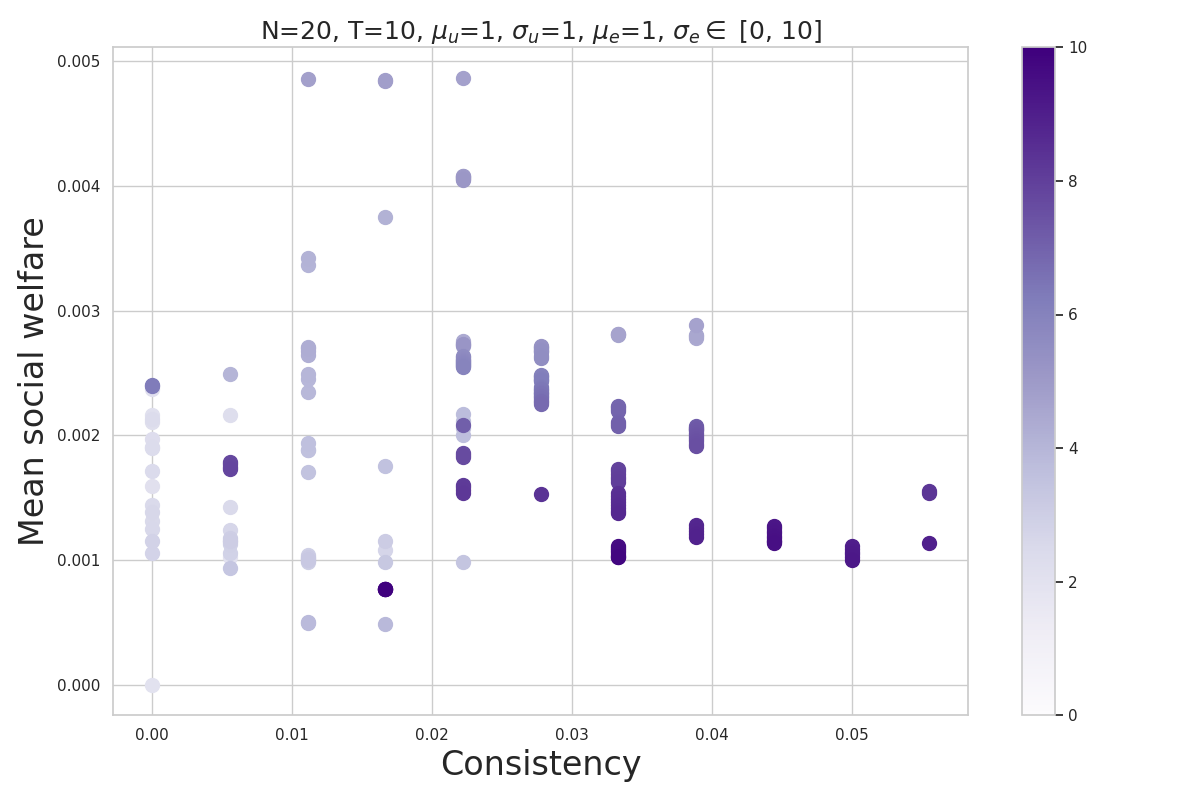
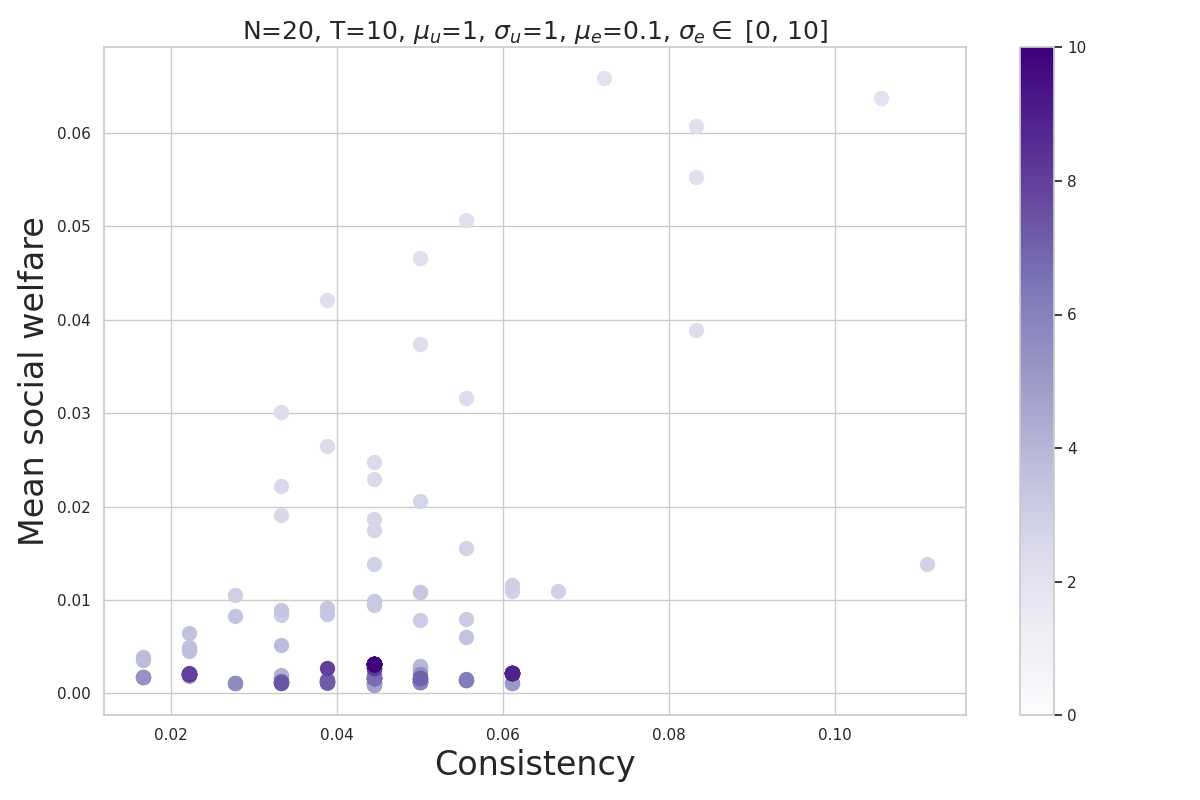
Update figure

diff --git a/code/experiments.py b/code/experiments.py
@@ -20,7 +20,7 @@ if __name__ == "__main__":
     diste = [
         # [0.1],
         # [0.],
-        [round(x, 9) for x in np.linspace(1, 2, 200)],
+        [round(x, 9) for x in np.linspace(0, 1, 200)],
         [round(x, 9) for x in np.linspace(1, 10, 1)],
     ]
     values = [0.5, 1, 10]
@@ -81,7 +81,7 @@ if __name__ == "__main__":
     #                   names, annotations_title='Excitements', fpath='figures/mpda_dynamics_excitement.png')
     plot_tradeoff_hue_fixed_mean(social_welfares, consistencies,
                                  annotations_title='Excitement', fpath='figures/mpda_dynamics_excitement_mean.png',
-                                 title=f'N=20, T=10, $\mu_nu$=1, $\sigma_u$=1, $\mu_e \in $ [1, 2], $\sigma_e$ = 1')
+                                 title=f'N=20, T=10, $\mu_nu$=1, $\sigma_u$=1, $\mu_e \in $ [0, 1], $\sigma_e$ = 1')
     dist = [
         [1],
         [1],
@@ -91,7 +91,7 @@ if __name__ == "__main__":
     diste = [
         # [0.1],
         # [0.],
-        [round(x, 9) for x in np.linspace(1, 2, 1)],
+        [round(x, 9) for x in np.linspace(.1, 2, 1)],
         [round(x, 9) for x in np.linspace(0, 10, 200)],
     ]
     values = [0.5, 1, 10]
@@ -152,7 +152,7 @@ if __name__ == "__main__":
     #                   names, annotations_title='Excitements', fpath='figures/mpda_dynamics_excitement.png')
     plot_tradeoff_hue_fixed_mean(social_welfares, consistencies,
                                  annotations_title='Excitement', fpath='figures/mpda_dynamics_excitement_std.png',
-                                 title=f'N=20, T=10, $\mu_u$=1, $\sigma_u$=1, $\mu_e$=1, $\sigma_e \in $ [0, 10]')
+                                 title=f'N=20, T=10, $\mu_u$=1, $\sigma_u$=1, $\mu_e$=0.1, $\sigma_e \in $ [0, 10]')
 
     dist = [
         [round(x, 9) for x in np.linspace(1, 10, 1)],
@@ -160,7 +160,7 @@ if __name__ == "__main__":
     ]
     diste = [
         [0.1],
-        [0.],
+        [0.1],
     ]
     values = [0.5, 1, 10]
     parameters = [
@@ -214,4 +214,4 @@ if __name__ == "__main__":
         #     '')
     plot_tradeoff_hue_fixed_mean(social_welfares, consistencies,
                                  annotations_title='Initializations', fpath='figures/mpda_dynamics_initliazation.png',
-                                 title=f'N=20, T=10, $\mu_u$=1, $\sigma_u \in$ [0, 10], $\mu_e$=0.5, $\sigma_e$=0.5')
+                                 title=f'N=20, T=10, $\mu_u$=1, $\sigma_u \in$ [0, 10], $\mu_e$=0.1, $\sigma_e$=0.1')
